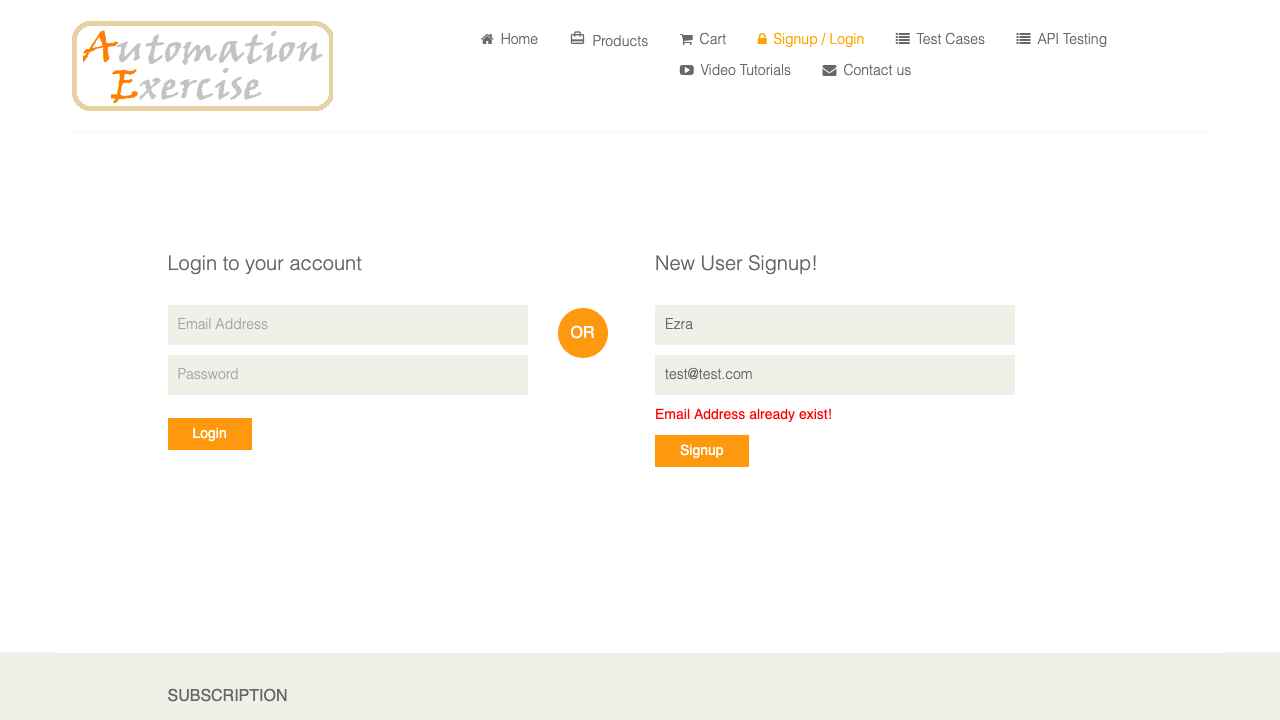
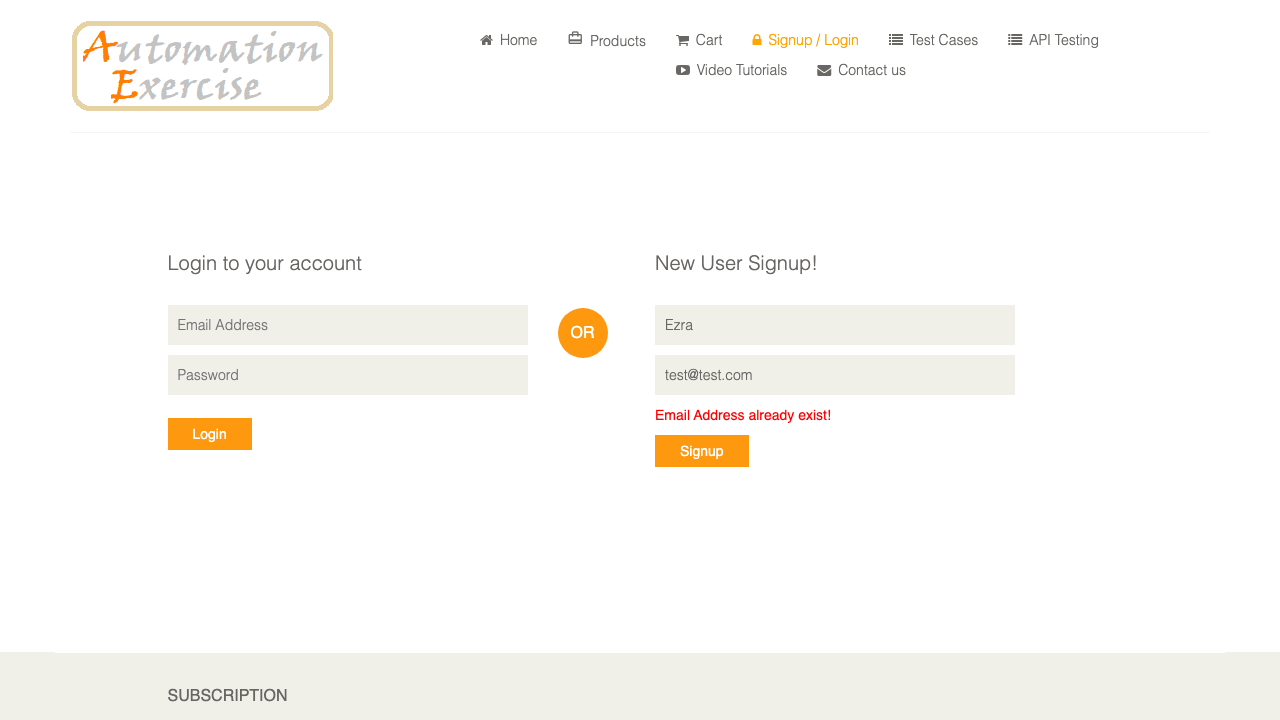
Fix Register User With and Existing Email test by adding dedicated helper
signUpUser() only ever waited for the success-path 'ENTER ACCOUNT
INFORMATION' heading, so any caller submitting a known-duplicate email
timed out before reaching its own assertion, even though the site
correctly showed 'Email Address already exist!' the whole time.

Add signUpUserWithExistingEmail() as a separate page-object method that
waits for the duplicate-email message instead, and switch the one test
that needs it. The 5 other signUpUser() callers are untouched.

diff --git a/page-objects/loginSignUpPage.ts b/page-objects/loginSignUpPage.ts
@@ -110,6 +110,23 @@ export class LoginSignUpPage {
     }
 
 
+    async signUpUserWithExistingEmail(name: string, email: string) {
+        await expect(this.page.getByText('New User Signup!')).toBeVisible()
+
+        const signUpForm = this.page.locator('.signup-form');
+        const nameInputBox = signUpForm.getByPlaceholder('Name')
+        const emailInputBox = signUpForm.getByPlaceholder('Email Address')
+        const signUpButton = signUpForm.getByRole('button', { name: 'Signup' })
+        await nameInputBox.click()
+        await nameInputBox.fill(name)
+        await emailInputBox.click()
+        await emailInputBox.fill(email)
+        await signUpButton.click()
+        // Duplicate email: the site stays on this page and shows this error instead of advancing
+        await expect(this.page.getByText('Email Address already exist!')).toBeVisible({ timeout: 15000 })
+    }
+
+
     async deleteAccount() {
         const continueButton = this.page.getByRole('link', { name: 'Continue', exact: true });
         await continueButton.waitFor({ state: 'visible', timeout: 10000 });

diff --git a/tests/login.spec.ts b/tests/login.spec.ts
@@ -105,7 +105,7 @@ test('Register User With and Existing Email', async ({ page,loginPage }) => {
   //we can use timeout for a test 
     // test.setTimeout(10000)
     //test.slow() will inceasr the timeout of timeout from config multiplying with ten seconds
-    await loginPage.toLoginPage.signUpUser('Ezra', 'test@test.com');
+    await loginPage.toLoginPage.signUpUserWithExistingEmail('Ezra', 'test@test.com');
 
   await page.screenshot({ path: 'screenshots/loginPage.png' });
 
